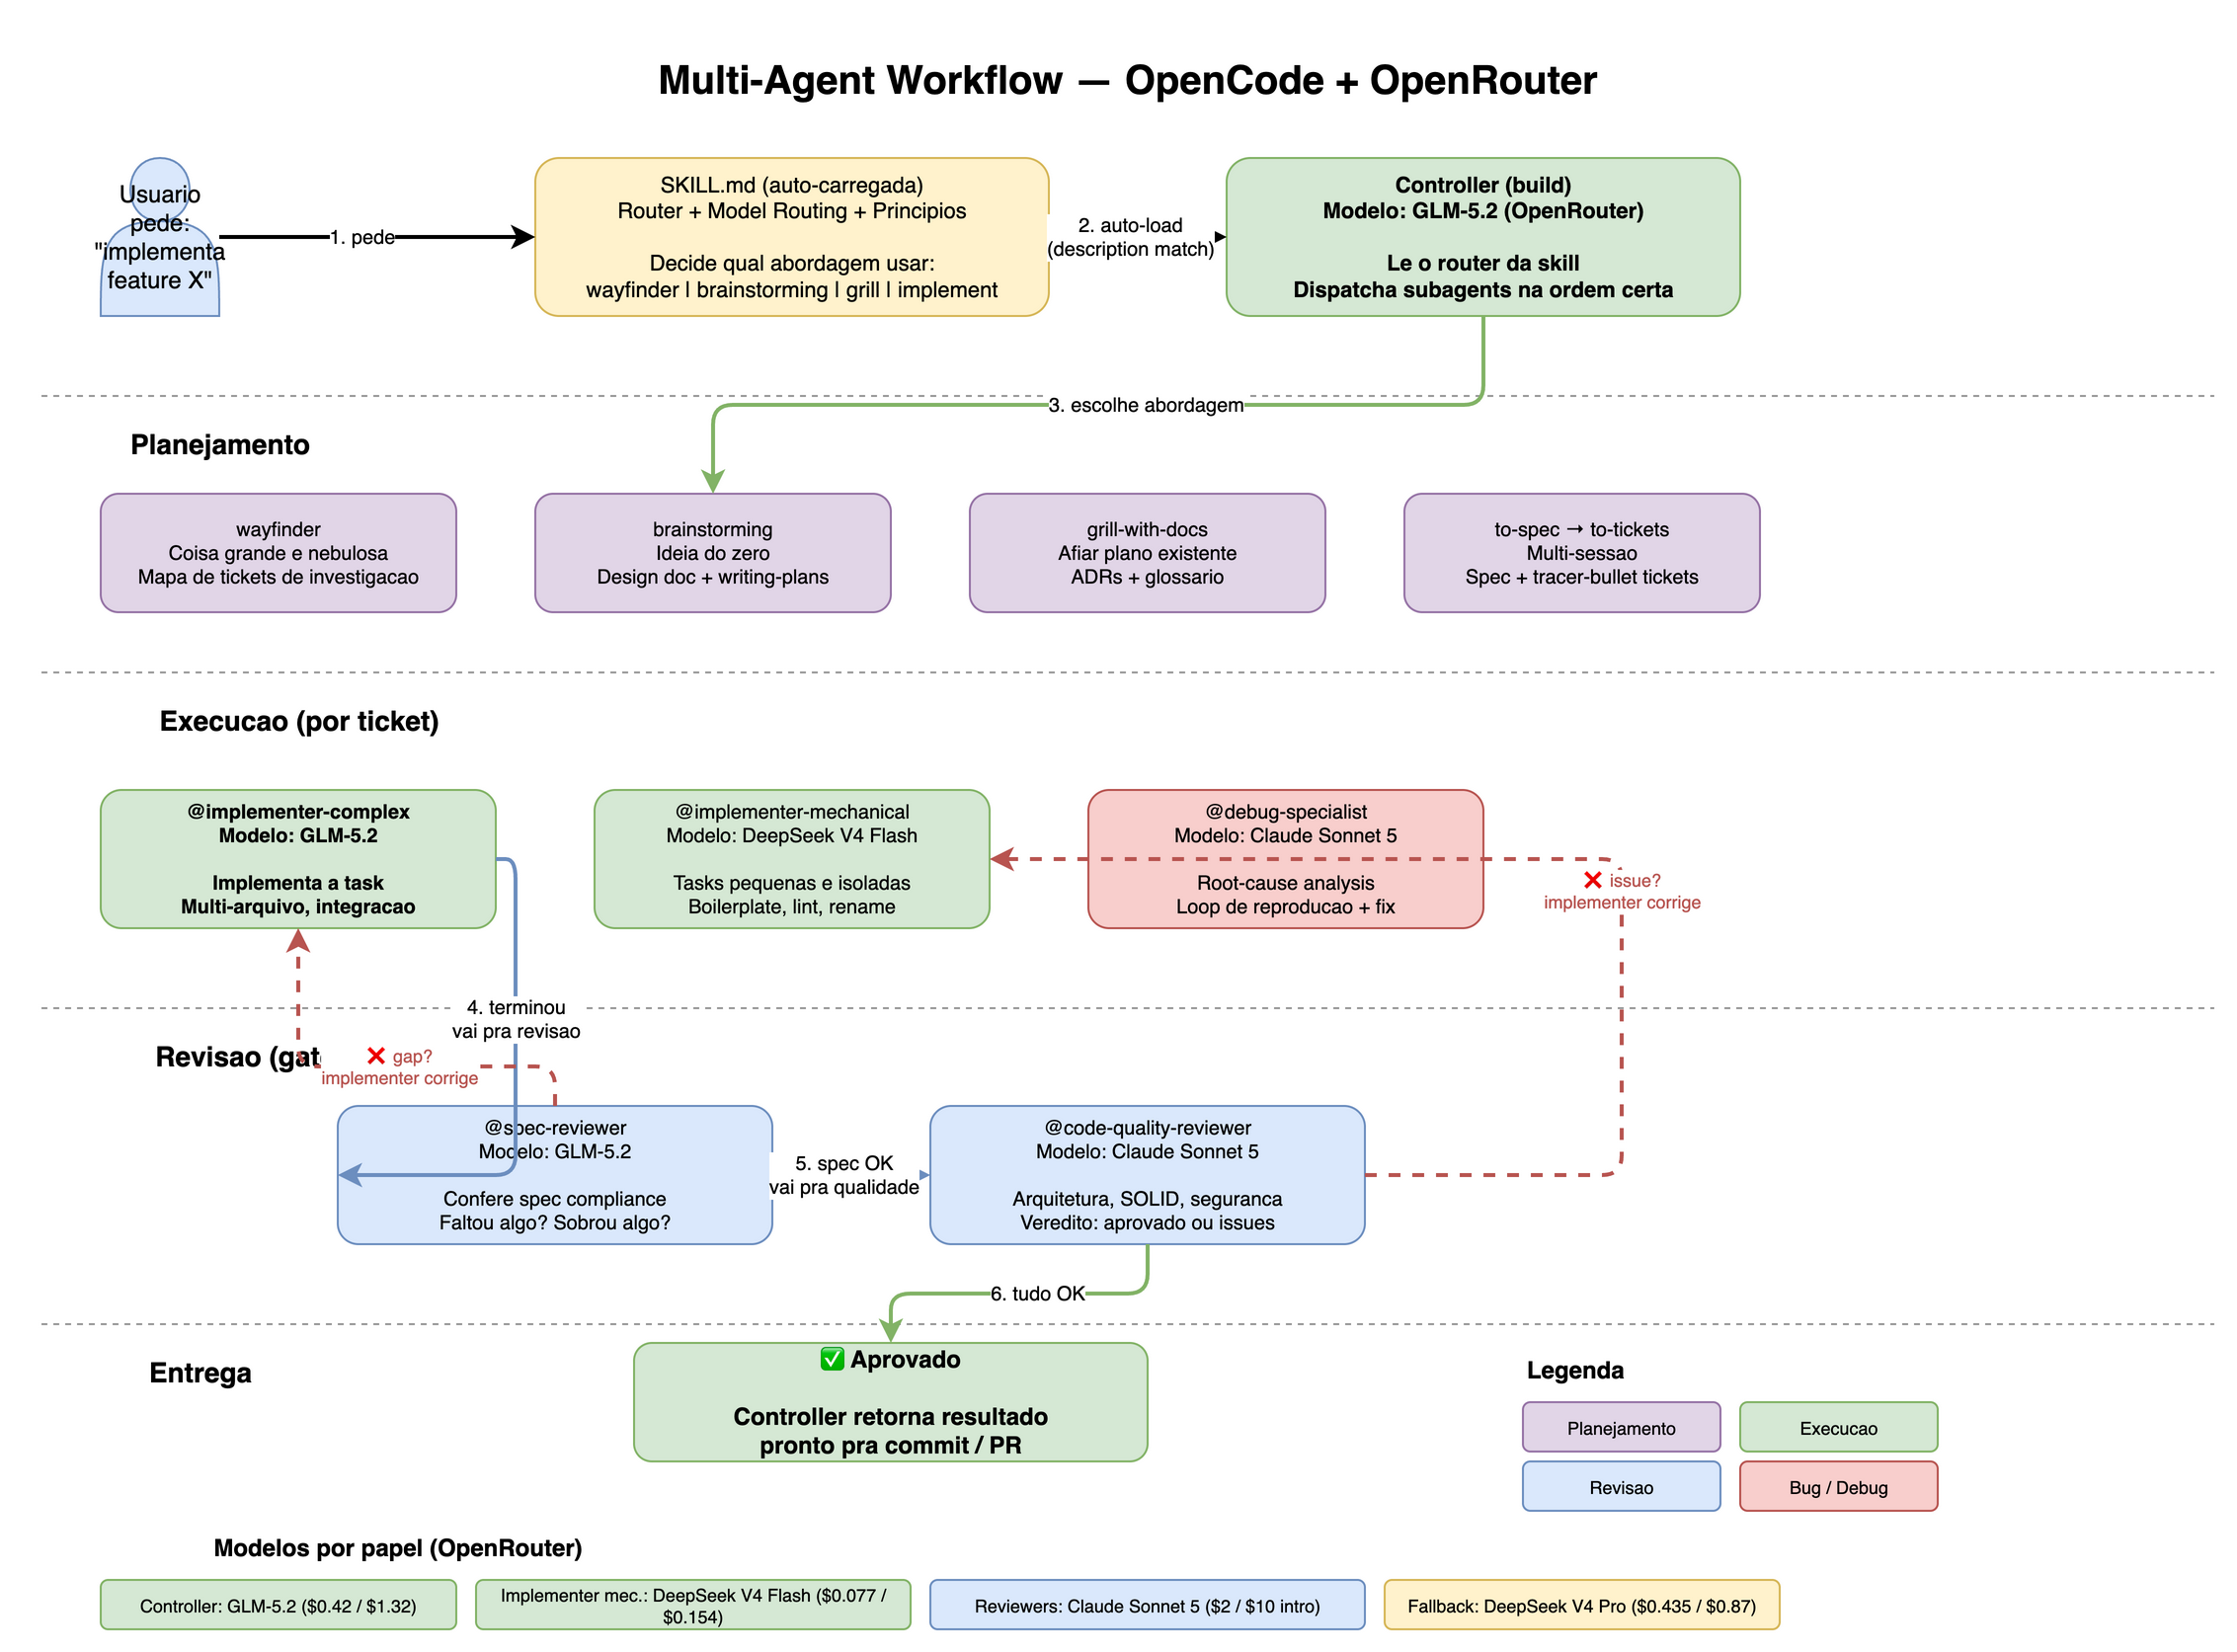
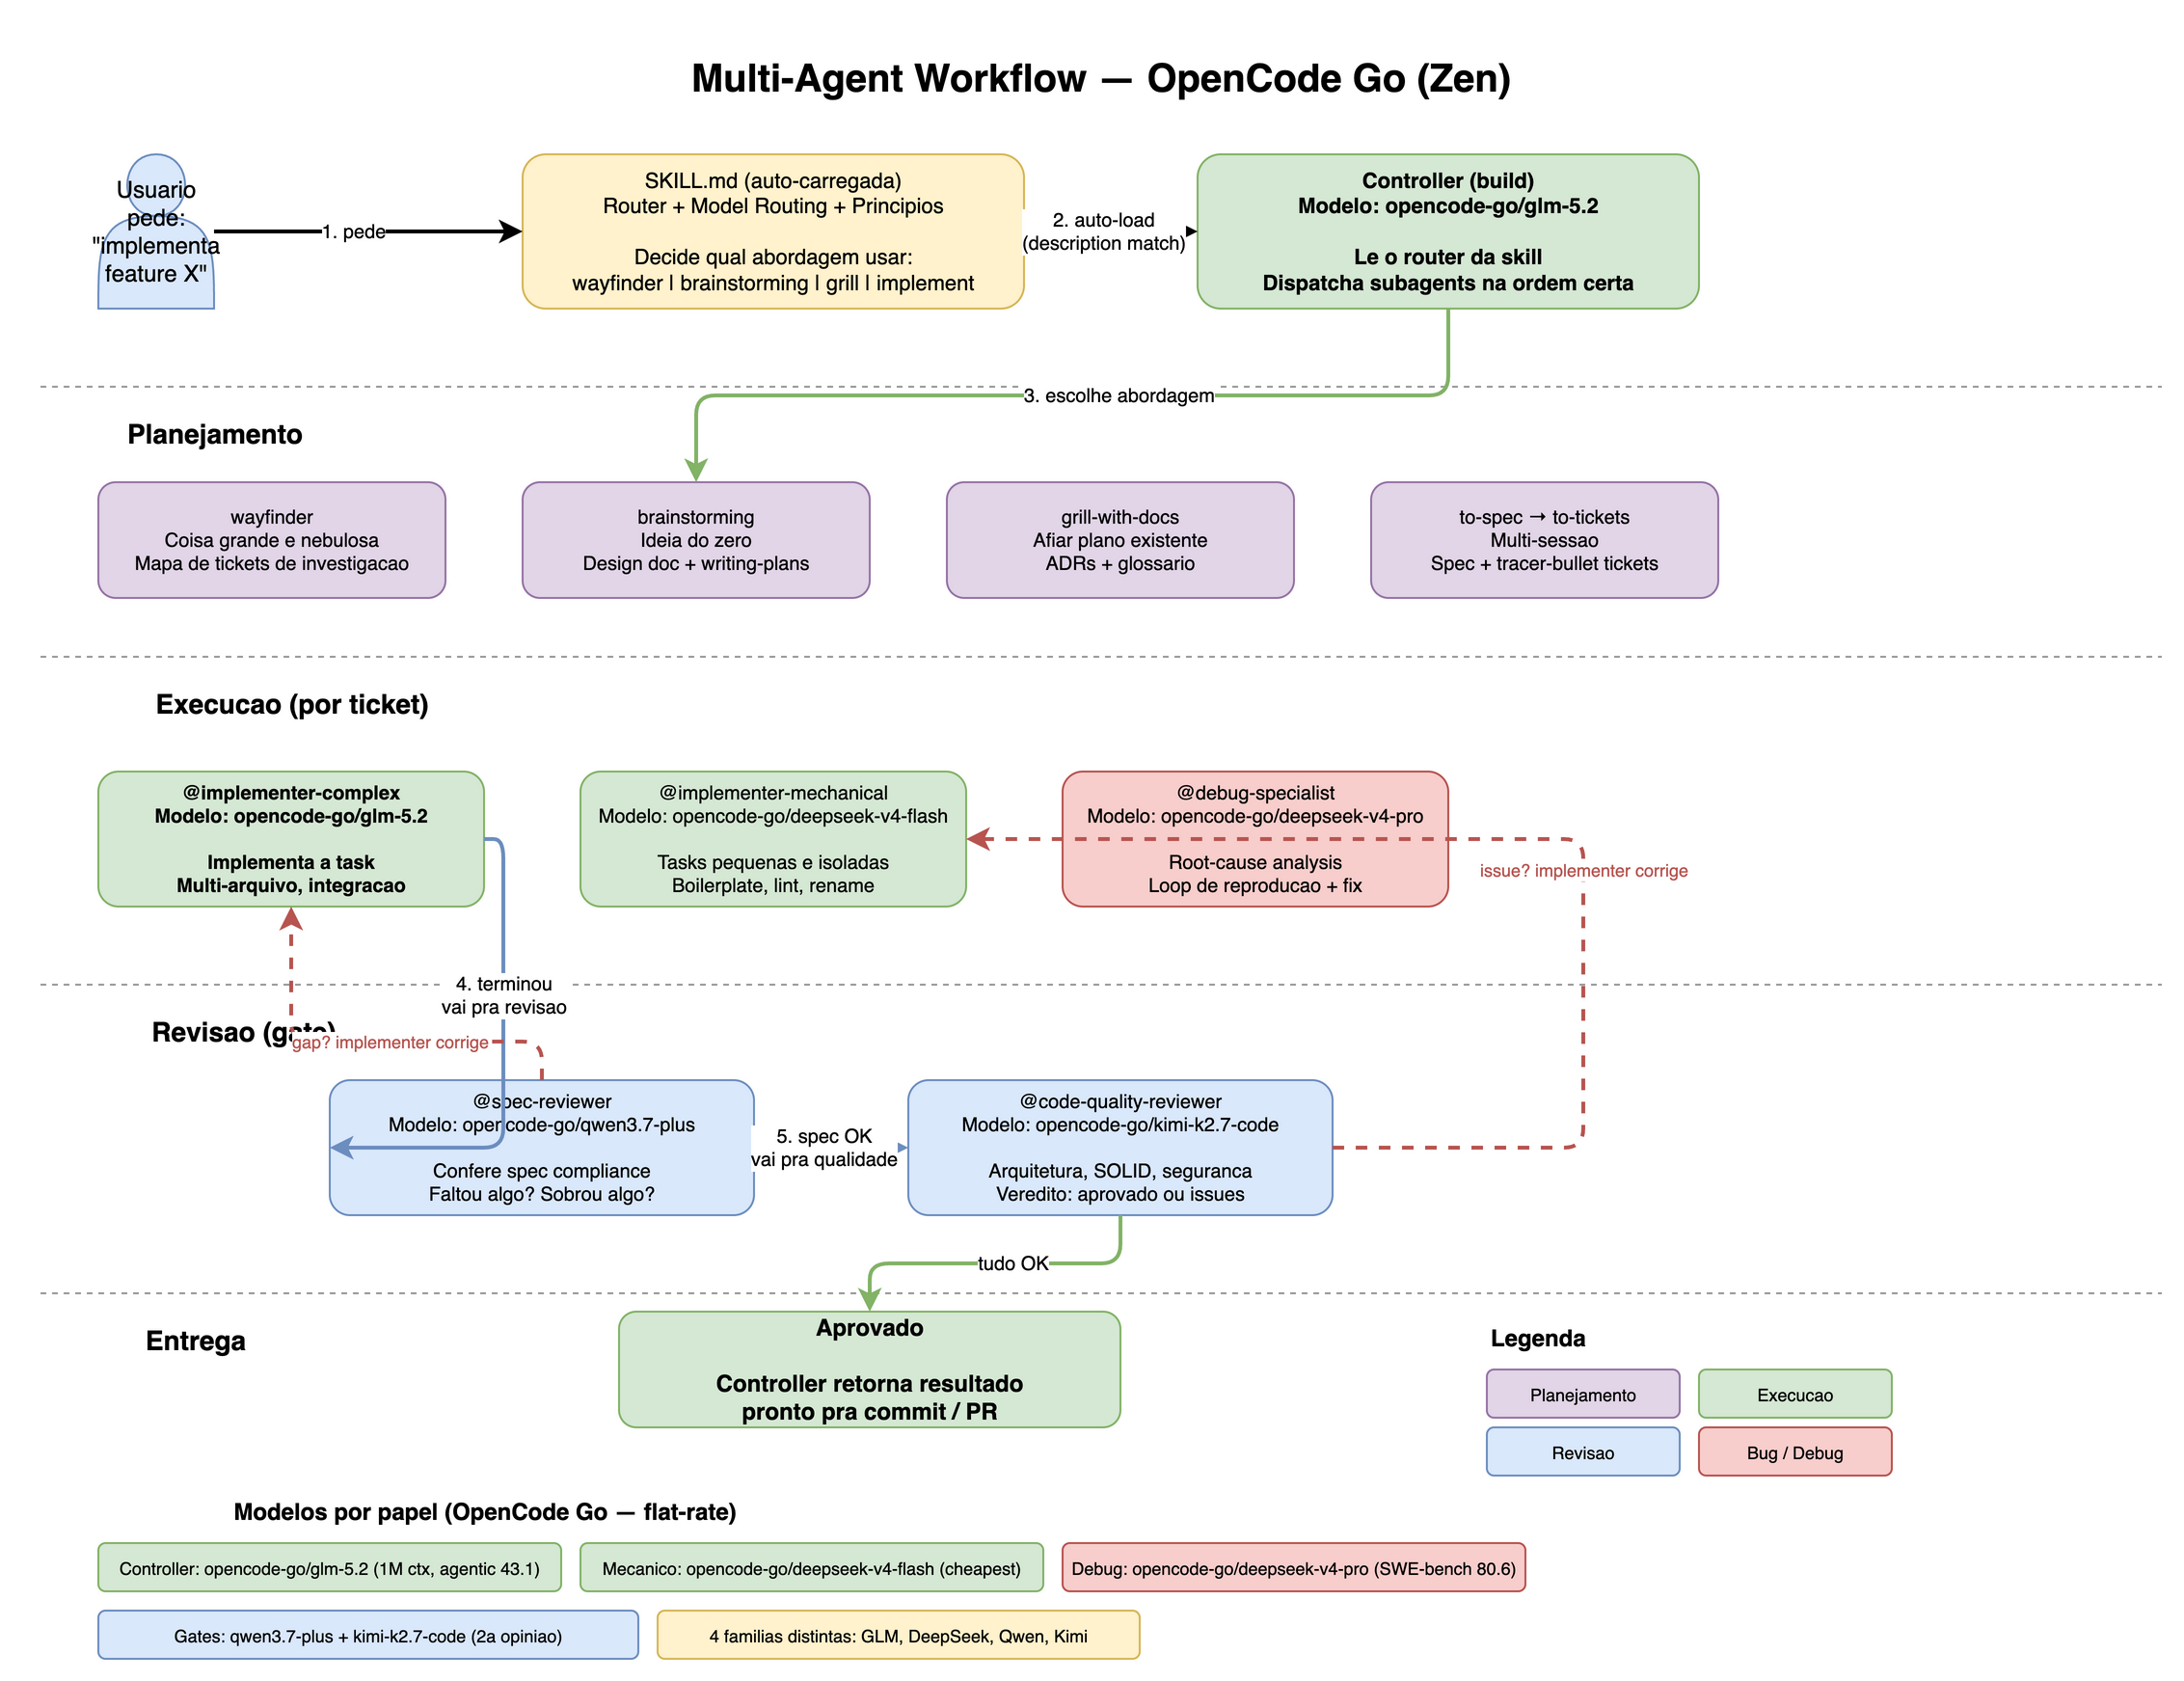
fix model IDs (opencode/ -> opencode-go/), fix git push -f glob, update husky setup, regenerate diagram, fix README link and skill collection name

diff --git a/README.md b/README.md
@@ -6,7 +6,7 @@ Skill multi-agente para [OpenCode](https://opencode.ai) que roteia trabalho pra 
 
 ![Diagrama do workflow](docs/workflow.png)
 
-> Arquivo editável: [docs/workflow.drawio](docs/workflow.png) (abra em [app.diagrams.net](https://app.diagrams.net))
+> Arquivo editável: [docs/workflow.drawio](docs/workflow.drawio) (abra em [app.diagrams.net](https://app.diagrams.net))
 
 ## O que você ganha
 
@@ -22,9 +22,9 @@ Depois de rodar `setup.sh` e reiniciar o OpenCode, três camadas trabalham junto
 
 | Camada | O que faz | Como carrega |
 |---|---|---|
-| **Skill** (`SKILL.md`) | Diz pro controller o workflow: qual skill usar quando, tabela de model routing, ordem dos subagents, padrões de código, verify-don't-assume | OpenCode escaneia `~/.config/opencode/skills/` no startup e auto-carrega quando a description matcha com seu pedido (model-invoked) |
-| **Subagents** (`agents/*.md`) | 5 agentes especializados com seus próprios modelos e permissões, em `~/.config/opencode/agents/` | OpenCode carrega tudo no startup; invoca via `@agent-name` ou o controller dispatcha automaticamente seguindo a skill |
-| **Config** (`opencode.json`) | Seta o `build` (controller) pra `opencode/glm-5.2`, habilita permissão `task` pra poder dispatchar subagents, seta `small_model` pra `opencode/deepseek-v4-flash` | Carregado uma vez no startup |
+| **Skill** (`SKILL.md`) | Diz pro controller o workflow: qual skill usar quando, tabela de model routing, ordem dos subagents, padrões de código, verify-don't-assume | OpenCode escaneia `~/.config/opencode-go/skills/` no startup e auto-carrega quando a description matcha com seu pedido (model-invoked) |
+| **Subagents** (`agents/*.md`) | 5 agentes especializados com seus próprios modelos e permissões, em `~/.config/opencode-go/agents/` | OpenCode carrega tudo no startup; invoca via `@agent-name` ou o controller dispatcha automaticamente seguindo a skill |
+| **Config** (`opencode.json`) | Seta o `build` (controller) pra `opencode-go/glm-5.2`, habilita permissão `task` pra poder dispatchar subagents, seta `small_model` pra `opencode-go/deepseek-v4-flash` | Carregado uma vez no startup |
 
 **Fluxo:** você pede pro OpenCode implementar feature → a skill auto-carrega → o controller (GLM-5.2) lê o router → escolhe a abordagem (brainstorming, implement, etc.) → dispatcha os subagents na ordem certa (implementer → spec-reviewer → code-quality-reviewer) → cada subagent roda no seu modelo → resultado volta pra você.
 
@@ -48,10 +48,10 @@ chmod +x scripts/setup.sh
 Depois **reinicia o OpenCode** pra carregar tudo.
 
 O setup script:
-1. Checa pré-requisitos (python3, OpenCode, skills de superpowers)
-2. Copia `SKILL.md` pra `~/.config/opencode/skills/multi-agent-workflow/SKILL.md`
-3. Copia 5 templates de subagents pra `~/.config/opencode/agents/`
-4. Injeta model routing e config do agente `build` no `~/.config/opencode/opencode.json`
+1. Checa pré-requisitos (python3, OpenCode, skills do Matt Pocock)
+2. Copia `SKILL.md` pra `~/.config/opencode-go/skills/multi-agent-workflow/SKILL.md`
+3. Copia 5 templates de subagents pra `~/.config/opencode-go/agents/`
+4. Injeta model routing e config do agente `build` no `~/.config/opencode-go/opencode.json`
 
 ## Uso
 
@@ -95,12 +95,12 @@ Tudo no pool open-source do plano **opencode Go** (flat-rate), roteado por **cus
 
 | Papel | Modelo (opencode Zen) | Nota (CxB) |
 |---|---|---|
-| Controller / planner | `opencode/glm-5.2` | melhor capacidade/dólar all-round, 1M ctx |
-| Implementer complexo | `opencode/glm-5.2` | papel que mais gasta token → CxB importa mais aqui |
-| Implementer mecânico | `opencode/deepseek-v4-flash` | mais barato capaz; variante `-free` p/ throwaway |
-| Debug specialist | `opencode/deepseek-v4-pro` | melhor raciocínio duro do pool **e** barato — CxB destaque |
-| Spec gate | `opencode/qwen3.7-plus` | leitura cuidadosa é barata; família diferente |
-| Code-quality gate | `opencode/kimi-k2.7-code` | gate de maior aposta, baixo volume → coding-specialist; escala p/ `grok-4.5` / `claude-sonnet-5` em PR crítico |
+| Controller / planner | `opencode-go/glm-5.2` | melhor capacidade/dólar all-round, 1M ctx |
+| Implementer complexo | `opencode-go/glm-5.2` | papel que mais gasta token → CxB importa mais aqui |
+| Implementer mecânico | `opencode-go/deepseek-v4-flash` | mais barato capaz; variante `-free` p/ throwaway |
+| Debug specialist | `opencode-go/deepseek-v4-pro` | melhor raciocínio duro do pool **e** barato — CxB destaque |
+| Spec gate | `opencode-go/qwen3.7-plus` | leitura cuidadosa é barata; família diferente |
+| Code-quality gate | `opencode-go/kimi-k2.7-code` | gate de maior aposta, baixo volume → coding-specialist; escala p/ `grok-4.5` / `claude-sonnet-5` em PR crítico |
 
 ## Estrutura
 
@@ -108,11 +108,11 @@ Tudo no pool open-source do plano **opencode Go** (flat-rate), roteado por **cus
 opencode-multi-agent-workflow/
 ├── SKILL.md                                # router + model routing + subagents + princípios
 ├── agents/                                  # templates dos subagents
-│   ├── implementer-complex.md              # opencode/glm-5.2
-│   ├── implementer-mechanical.md           # opencode/deepseek-v4-flash
-│   ├── spec-reviewer.md                    # opencode/qwen3.7-plus (gate)
-│   ├── code-quality-reviewer.md            # opencode/kimi-k2.7-code (gate)
-│   └── debug-specialist.md                 # opencode/deepseek-v4-pro
+│   ├── implementer-complex.md              # opencode-go/glm-5.2
+│   ├── implementer-mechanical.md           # opencode-go/deepseek-v4-flash
+│   ├── spec-reviewer.md                    # opencode-go/qwen3.7-plus (gate)
+│   ├── code-quality-reviewer.md            # opencode-go/kimi-k2.7-code (gate)
+│   └── debug-specialist.md                 # opencode-go/deepseek-v4-pro
 ├── docs/
 │   ├── model-selection.md                  # análise de custo-benefício por papel
 │   ├── enforcement.md                      # ADR: por que permission deny + husky em vez de plugin

diff --git a/SKILL.md b/SKILL.md
@@ -37,16 +37,16 @@ Route work to the skill that fits the situation. Load skills with the skill tool
 
 ## Multi-agent model routing
 
-All IDs below are OpenCode Zen (`opencode/<id>`) models in the `opencode Go` open-model pool, so the whole pipeline runs inside the flat-rate plan. On a flat plan the scarce resource is the **rate limit**, not per-token price — so route for **best cost-benefit per role**: spend capability where it decides the outcome (gates, debugging), stay cheap on volume (bulk + mechanical). Full rationale, cost basis, and escalation levers in **`docs/model-selection.md`**. Rankings change — reconfirm with `/models` before freezing.
+All IDs below are OpenCode Zen (`opencode-go/<id>`) models in the `opencode Go` open-model pool, so the whole pipeline runs inside the flat-rate plan. On a flat plan the scarce resource is the **rate limit**, not per-token price — so route for **best cost-benefit per role**: spend capability where it decides the outcome (gates, debugging), stay cheap on volume (bulk + mechanical). Full rationale, cost basis, and escalation levers in **`docs/model-selection.md`**. Rankings change — reconfirm with `/models` before freezing.
 
 | Role | Model | reasoningEffort | Why (CxB) |
 |---|---|---|---|
-| Controller / planner | `opencode/glm-5.2` | high | Best capability-per-dollar all-round open coder, 1M context |
-| Implementer — complex | `opencode/glm-5.2` | high | Highest-token role; GLM-5.2 wins CxB there |
-| Implementer — mechanical | `opencode/deepseek-v4-flash` | — | Cheapest capable; `-free` variant for throwaway work |
-| Debug specialist | `opencode/deepseek-v4-pro` | high | Pool's best hard-reasoner **and** cheap — standout CxB; different family |
-| Spec gate | `opencode/qwen3.7-plus` | high | Careful reading is cheap; different family |
-| Quality gate | `opencode/kimi-k2.7-code` | high | Highest-stakes, low-volume gate → coding-specialist, different family; escalate to `grok-4.5` / `claude-sonnet-5` for critical PRs |
+| Controller / planner | `opencode-go/glm-5.2` | high | Best capability-per-dollar all-round open coder, 1M context |
+| Implementer — complex | `opencode-go/glm-5.2` | high | Highest-token role; GLM-5.2 wins CxB there |
+| Implementer — mechanical | `opencode-go/deepseek-v4-flash` | — | Cheapest capable; `-free` variant for throwaway work |
+| Debug specialist | `opencode-go/deepseek-v4-pro` | high | Pool's best hard-reasoner **and** cheap — standout CxB; different family |
+| Spec gate | `opencode-go/qwen3.7-plus` | high | Careful reading is cheap; different family |
+| Quality gate | `opencode-go/kimi-k2.7-code` | high | Highest-stakes, low-volume gate → coding-specialist, different family; escalate to `grok-4.5` / `claude-sonnet-5` for critical PRs |
 
 **Rules of thumb:**
 - Four distinct model families across the pipeline, so every gate is a genuine second opinion — never a model grading its own output.
@@ -56,15 +56,15 @@ All IDs below are OpenCode Zen (`opencode/<id>`) models in the `opencode Go` ope
 
 ## Subagents
 
-The following subagents are installed by `scripts/setup.sh` and live in `~/.config/opencode/agents/`. Invoke them by mentioning `@agent-name` in a message.
+The following subagents are installed by `scripts/setup.sh` and live in `~/.config/opencode-go/agents/`. Invoke them by mentioning `@agent-name` in a message.
 
 | Agent | Model | Use when |
 |---|---|---|
-| `@implementer-complex` | `opencode/glm-5.2` | Multi-file implementation, integration |
-| `@implementer-mechanical` | `opencode/deepseek-v4-flash` | Small isolated edits, boilerplate, formatting |
-| `@spec-reviewer` | `opencode/qwen3.7-plus` | Spec-compliance gate (blocks until PASS) |
-| `@code-quality-reviewer` | `opencode/kimi-k2.7-code` | Code-quality gate (blocks until PASS) |
-| `@debug-specialist` | `opencode/deepseek-v4-pro` | Root-cause analysis |
+| `@implementer-complex` | `opencode-go/glm-5.2` | Multi-file implementation, integration |
+| `@implementer-mechanical` | `opencode-go/deepseek-v4-flash` | Small isolated edits, boilerplate, formatting |
+| `@spec-reviewer` | `opencode-go/qwen3.7-plus` | Spec-compliance gate (blocks until PASS) |
+| `@code-quality-reviewer` | `opencode-go/kimi-k2.7-code` | Code-quality gate (blocks until PASS) |
+| `@debug-specialist` | `opencode-go/deepseek-v4-pro` | Root-cause analysis |
 
 **Workflow order per ticket:** `@implementer-complex` → `@spec-reviewer` → `@code-quality-reviewer`. Only move forward after each agent reports approval. If the spec reviewer finds gaps, the implementer fixes them and the spec reviewer re-reviews. If the code-quality reviewer finds issues, the implementer fixes them and the code-quality reviewer re-reviews.
 

diff --git a/agents/code-quality-reviewer.md b/agents/code-quality-reviewer.md
@@ -1,7 +1,7 @@
 ---
 description: Quality gate — deep code-quality review of architecture, maintainability, security, and edge cases. Runs after the spec gate passes; blocks progress until it passes.
 mode: subagent
-model: opencode/kimi-k2.7-code
+model: opencode-go/kimi-k2.7-code
 reasoningEffort: high
 temperature: 0.2
 permission:
@@ -23,4 +23,4 @@ When reviewing:
    - `FAIL` — list every issue with severity (BLOCKER / IMPORTANT / MINOR), each with file:line and the concrete fix. Any BLOCKER or IMPORTANT means the implementer fixes and resubmits for re-review.
 6. Cite file:line for every finding. A finding without a location is not actionable — don't raise it.
 
-For high-stakes changes (auth, payments, migrations, public API), escalate the model to `opencode/grok-4.5`, or `opencode/claude-sonnet-5` for the sharpest pass (the latter bills outside the Go flat plan). Do not modify files. Read, red-team, and rule.
+For high-stakes changes (auth, payments, migrations, public API), escalate the model to `opencode-go/grok-4.5`, or `opencode-go/claude-sonnet-5` for the sharpest pass (the latter bills outside the Go flat plan). Do not modify files. Read, red-team, and rule.

diff --git a/docs/model-selection.md b/docs/model-selection.md
@@ -39,8 +39,8 @@ Four distinct model families across the pipeline, so every gate is a genuine sec
 
 ## Escalation levers (spend more only when stakes justify it)
 
-- **Quality gate on critical changes** (auth, payments, migrations, public API): switch the code-quality reviewer to `opencode/grok-4.5` (still inside Go) or `opencode/claude-sonnet-5` (sharpest, bills outside the flat plan).
-- **Complex spec review**: bump the spec gate to `opencode/qwen3.7-max`.
+- **Quality gate on critical changes** (auth, payments, migrations, public API): switch the code-quality reviewer to `opencode-go/grok-4.5` (still inside Go) or `opencode-go/claude-sonnet-5` (sharpest, bills outside the flat plan).
+- **Complex spec review**: bump the spec gate to `opencode-go/qwen3.7-max`.
 - **Deeper reasoning on any role**: raise `reasoningEffort` (`high` → `xhigh` where the model supports it: DeepSeek V4 family, GLM-5.2).
 
 ## Caveats

diff --git a/agents/debug-specialist.md b/agents/debug-specialist.md
@@ -1,7 +1,7 @@
 ---
 description: Investigates bugs and performs root-cause analysis. Use when something is broken and the cause is unclear.
 mode: subagent
-model: opencode/deepseek-v4-pro
+model: opencode-go/deepseek-v4-pro
 reasoningEffort: high
 temperature: 0.1
 permission:

diff --git a/agents/implementer-complex.md b/agents/implementer-complex.md
@@ -1,7 +1,7 @@
 ---
 description: Implements complex, multi-file coding tasks based on a detailed spec. Use for integration work, feature implementation, and repository-level reasoning.
 mode: subagent
-model: opencode/glm-5.2
+model: opencode-go/glm-5.2
 reasoningEffort: high
 temperature: 0.2
 permission:

diff --git a/agents/implementer-mechanical.md b/agents/implementer-mechanical.md
@@ -1,7 +1,7 @@
 ---
 description: Performs small, isolated, mechanical coding tasks — boilerplate, formatting, lint fixes, renaming, minor edits. Use only when the spec is clear and the scope is tiny.
 mode: subagent
-model: opencode/deepseek-v4-flash
+model: opencode-go/deepseek-v4-flash
 temperature: 0.1
 permission:
   read: allow

diff --git a/agents/spec-reviewer.md b/agents/spec-reviewer.md
@@ -1,7 +1,7 @@
 ---
 description: Quality gate — reviews implementation against the spec to confirm every requirement is met and nothing extra was added. Runs after an implementer completes; blocks progress until it passes.
 mode: subagent
-model: opencode/qwen3.7-plus
+model: opencode-go/qwen3.7-plus
 reasoningEffort: high
 temperature: 0.1
 permission: